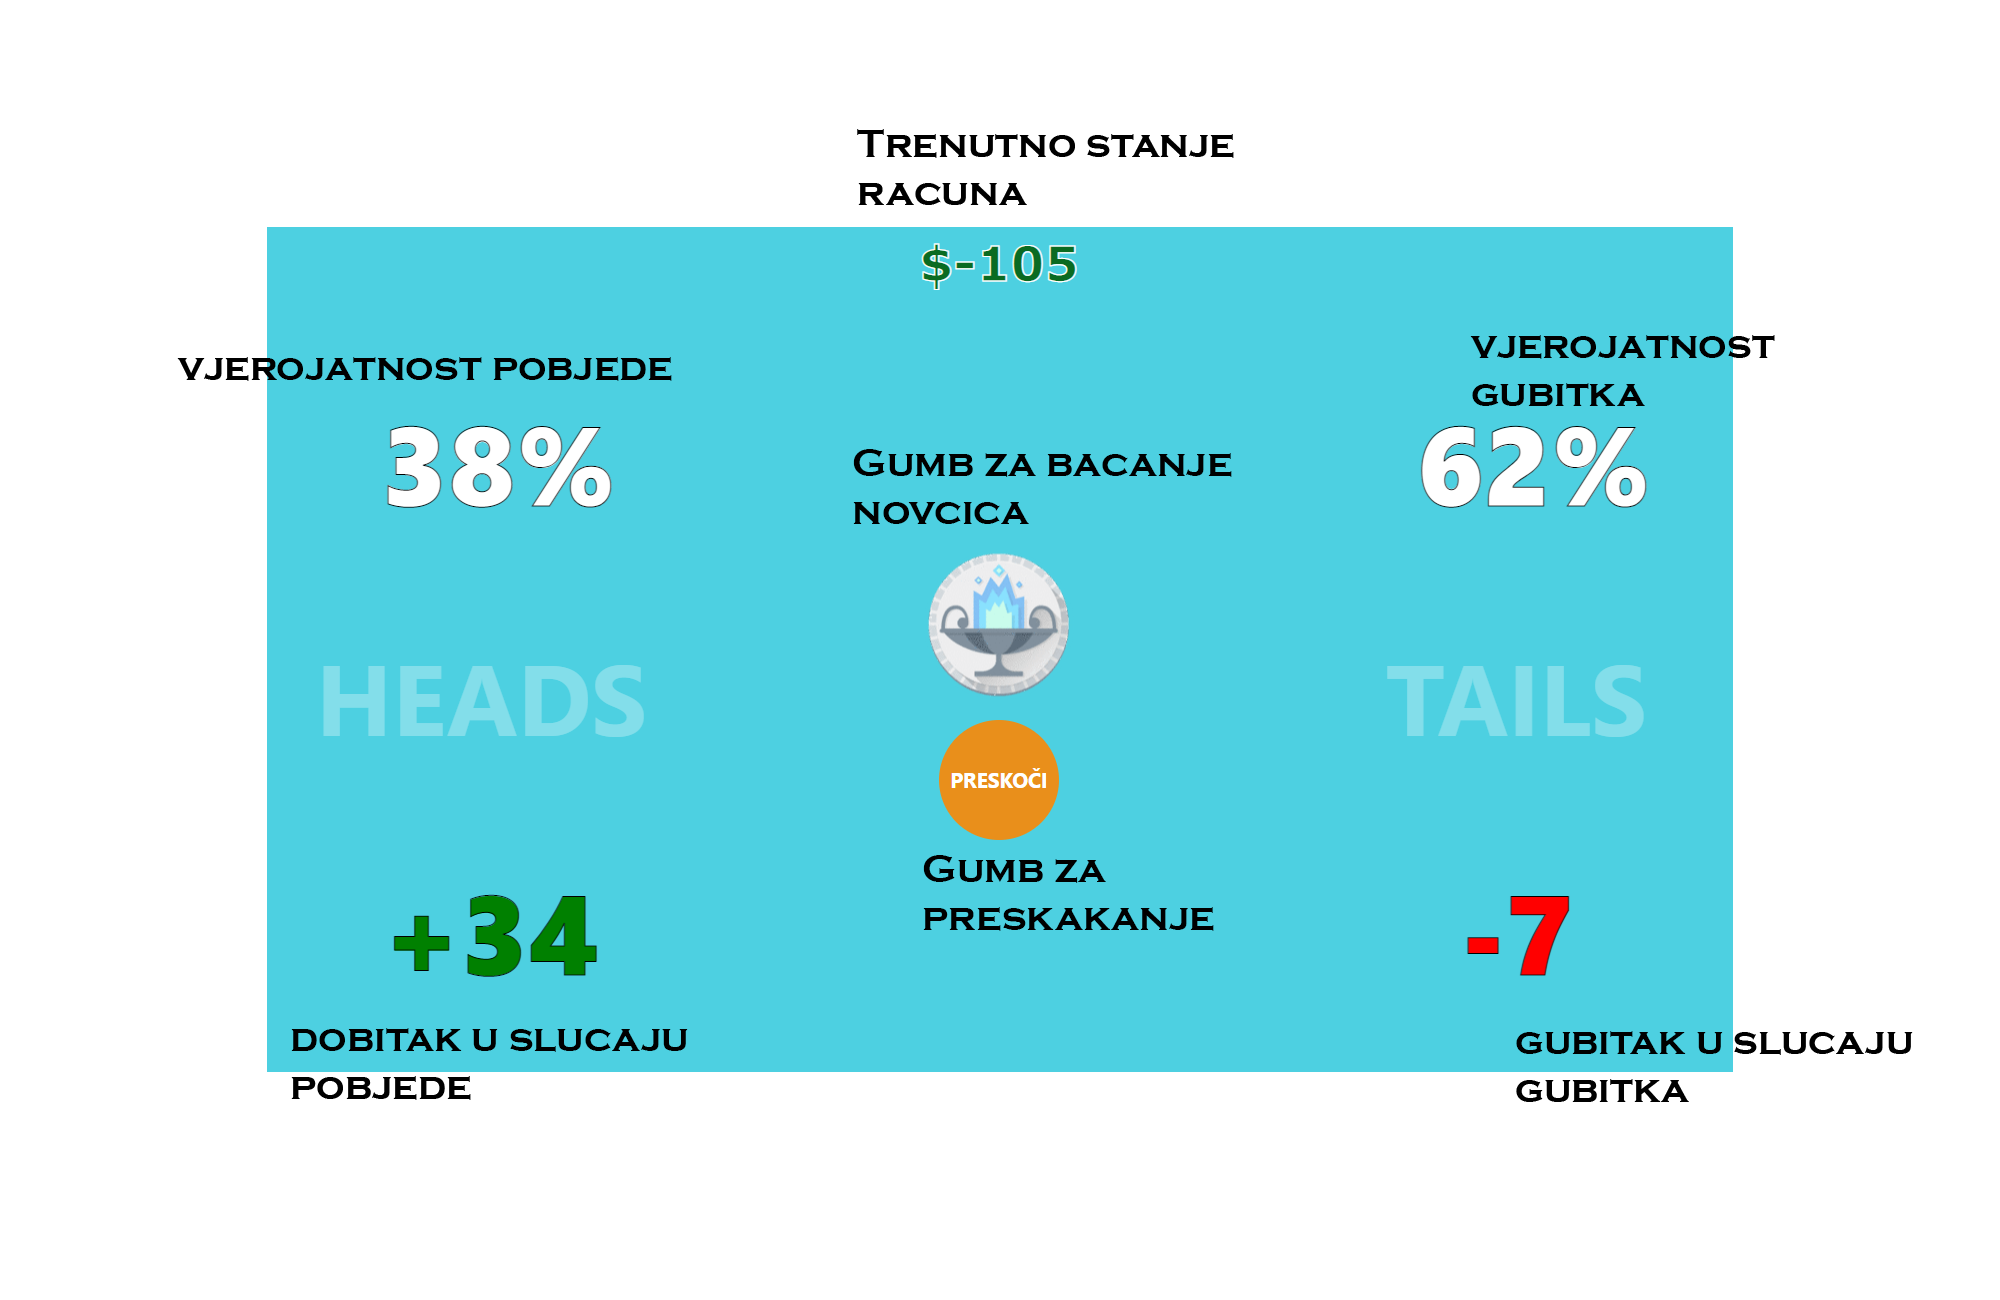
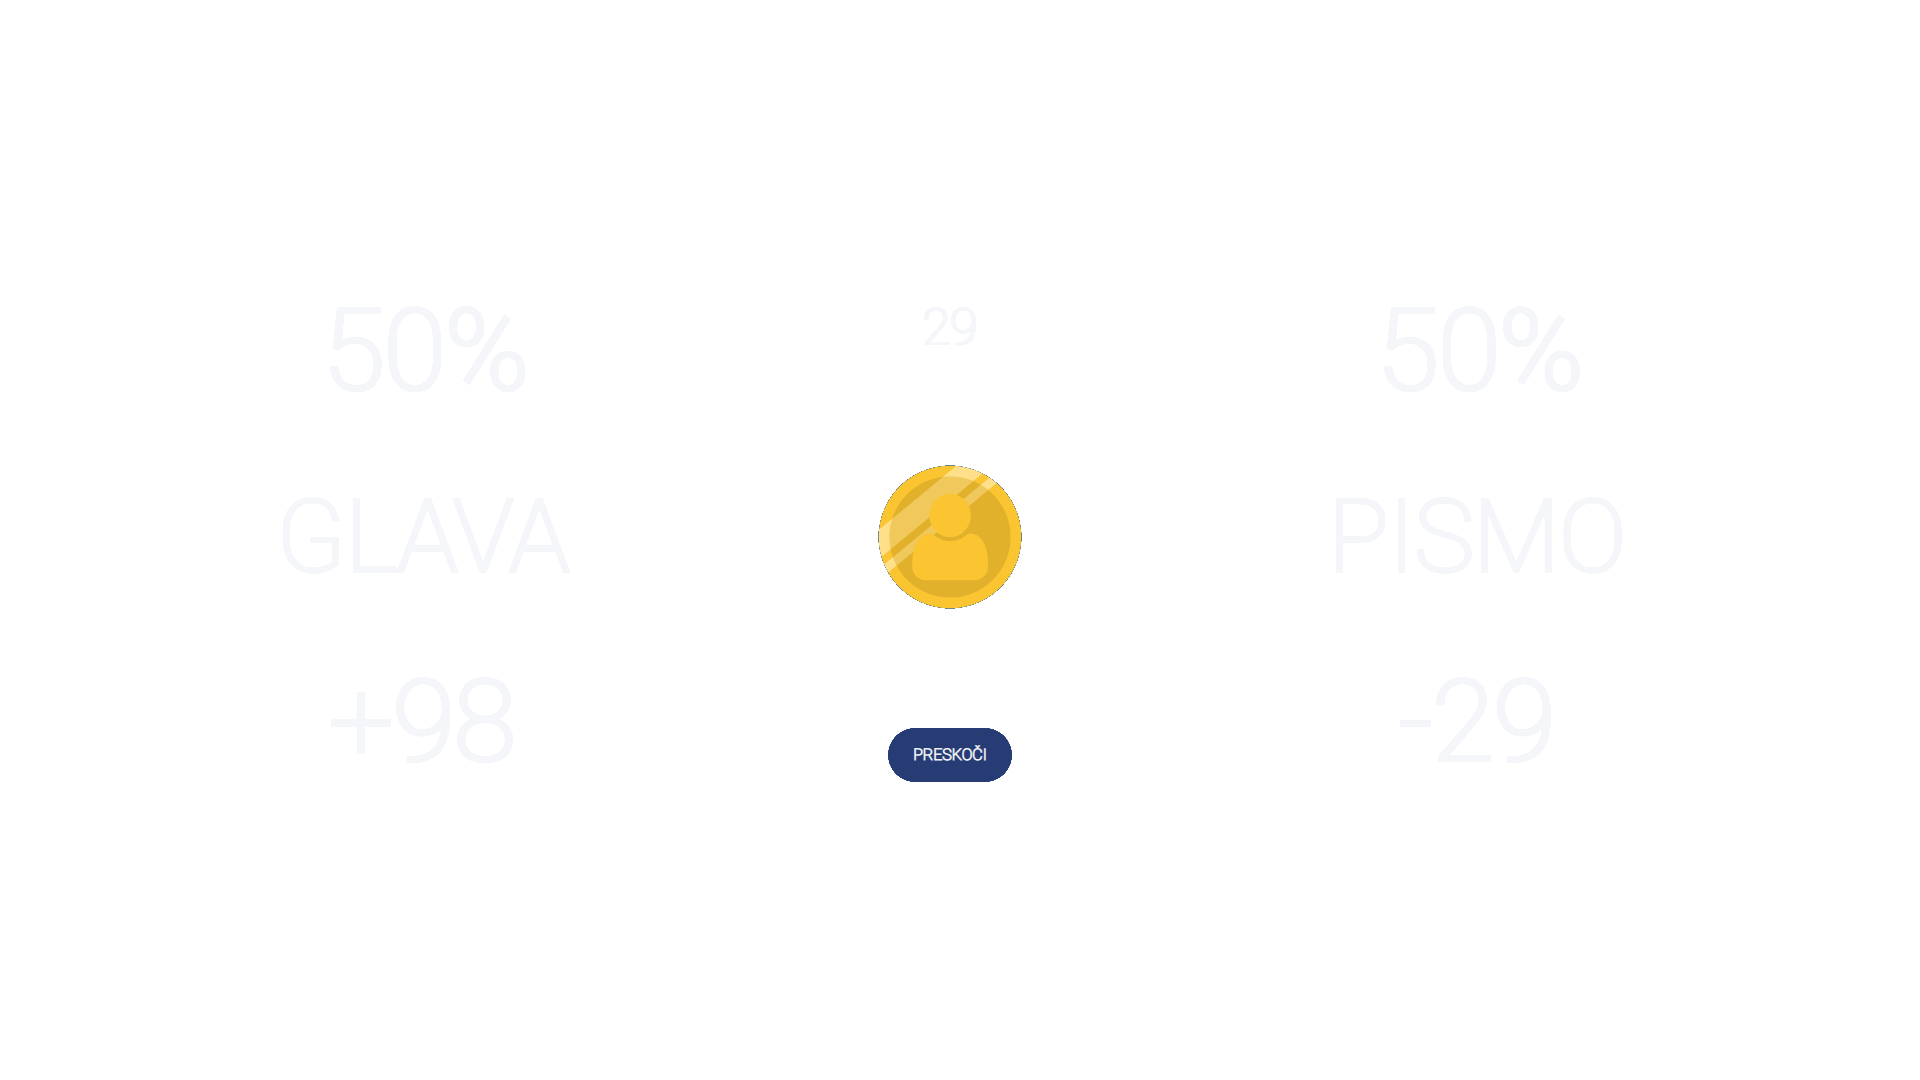
Design
Improved the design, added new images, adjusted color palette and created animated buttons

diff --git a/src/pages/Game.module.css b/src/pages/Game.module.css
@@ -1,44 +1,40 @@
 .container {
-  position: relative;
+  flex-direction: row;
   display: flex;
+  position: relative;
   height: 100vh;
   width: 100vw;
 }
 
 .points {
-  position: absolute;
-  width: 100vw;
-  text-align: center;
   text-transform: uppercase;
-  font-family: verdana;
-  font-size: 60px;
+  font-family: -apple-system, BlinkMacSystemFont, "Roboto", Arial, sans-serif;;
+  font-size: 50px;
   font-weight: 700;
-  color: #0a6b22;
-  -webkit-text-stroke: 1px #FFF;
+  color: rgb(245, 246, 250, 1);
 }
 
 .gain, .loss, .probability {
   text-align: center;
   width: 200px;
   font-size: 112px;
-  color: #FFF;
+  color: rgb(245, 246, 250, 1);
   font-weight: 900;
-  -webkit-text-stroke: 1px #000;
 }
 
 .gain {
-  color: green;
+  color: rgb(245, 246, 250, 1);;
 }
 
 .loss {
-  color: red;
+  color: rgb(245, 246, 250, 1);;
 }
 
 .bgText {
   font-size: 100px;
   font-weight: bold;
   text-transform: uppercase;
-  color: rgba(255, 255, 255, 0.3);
+  color: rgb(245, 246, 250, 0.5);
   user-select: none;
   position: absolute;
   top: 0;
@@ -57,51 +53,72 @@
   justify-content: space-around;
   align-items: center;
   flex-grow: 2;
+  /* background-color: rgb(245, 246, 250, 0.5); 
+  margin-left: 7%;
+  margin-right: 7%;
+  margin-top: 5%;
+  margin-bottom: 5%;
+  border: solid;
+  border-color: rgb(245, 246, 250, 1);*/
 }
 
 .middle {
+  position: relative;
   display: flex;
-  flex-shrink: 2;
+  flex-grow: 0.3;
   flex-direction: column;
   align-items: center;
   justify-content: center;
-  height: 100%;
+  /* background-color: rgb(245, 246, 250, 0.5); 
+  margin-top: 5%;
+  margin-bottom: 5%;
+  border: solid;
+  border-color: rgb(245, 246, 250, 1);*/
 }
 
-.skip {
-  margin-top: 20px;
+.btn{
+  /* overflow: hidden; */
+  margin-top: 200%;
+  border: none;
+  border-radius: 30px;
   cursor: pointer;
-  width: 120px;
-  height: 120px;
-  display: flex;
-  justify-content: center;
-  align-items: center;
-  border-radius: 50%;
-  background-color: rgb(233, 143, 27);
-  font-size: 20px;
-  font-weight: 700;
+  padding: 15px 25px;
+  transition: transform 0.3s ease;
+  background-color: #273c75;
   text-transform: uppercase;
-  color: #FFF;
+  font-weight: 600;
+  color: white;
+}
+
+.btn:hover {
+  background-color: #192a56;
+    transition: background-color 0.4s linear;    
+    transform: translateY(-3px);
+}
+
+img{
+  width: 150px;
+  height: 150px;
 }
 
 .coin {
-  position: relative;
+  position: absolute;
   width: 150px;
   height: 150px;
   cursor: pointer;
 }
 .coin div {
+  position: relative;
   width: 100%;
-  height: 100%;
+  height: 1px;
   border-radius: 50%;
-  overflow: hidden;
 }
 .coin {
   transition: transform 1s ease-in;
   transform-style: preserve-3d;
 }
 .coin div {
-  position: absolute;
+  position: relative;
   backface-visibility: hidden;
 }
 .headsSide {
@@ -128,8 +145,7 @@
 }
 
 .landingText {
-  margin: 20px 0 0 0;
-  color: gray;
-  font-weight: 900;
+  color: rgb(245, 246, 250, 1);
+  flex-wrap: wrap;
 }
 

diff --git a/src/pages/Game.js b/src/pages/Game.js
@@ -22,22 +22,24 @@ export default function Game() {
   const [gain, setGain] = useState(Math.round(Math.random() * 100));
   const [loss, setLoss] = useState(Math.round(Math.random() * 100));
   const [points, setPoints] = useState(0);
-  const [landText, setLandingText] = useState("");
+  const [landText, setLandingText] = useState(" ");
   return (
     <div>
       <div className={styles.container}>
-        <div className={styles.points}>{points}</div>
         <div className={styles.left}>
           <div className={styles.probability} hidden={blind}>
             {probability}%
           </div>
-          <div className={styles.bgText}>Heads</div>
+          <div className={styles.bgText}>Glava</div>
           <div className={styles.gain} hidden={blind}>
             +{gain}
           </div>
         </div>
         <div className={styles.middle}>
-          <h3 className={styles.landingText}>{landText}</h3>
+
+        <h3 className={styles.landingText}>{landText}</h3>
+          
+        <div className={styles.points}>{points}</div>
           <div
             className={styles.coin + " " + styles[coinState]}
             onClick={() => {
@@ -84,7 +86,7 @@ export default function Game() {
             </div>
           </div>
           <div
-            className={styles.skip}
+            className={styles.btn}
             onClick={() => {
               setLandingText(
                 Math.round(Math.random() * 100) <= probability
@@ -111,7 +113,7 @@ export default function Game() {
           <div className={styles.probability} hidden={blind}>
             {100 - probability}%
           </div>
-          <div className={styles.bgText}>Tails</div>
+          <div className={styles.bgText}>Pismo</div>
           <div className={styles.loss} hidden={blind}>
             -{loss}
           </div>

diff --git a/src/pages/Landing.module.css b/src/pages/Landing.module.css
@@ -1,4 +1,4 @@
-.container {
+.container {  
   display: flex;
   flex-direction: column;
   align-items: center;
@@ -6,24 +6,74 @@
 }
 
 .title {
-  font-size: 64px;
+  display: flex;
+  flex-direction: column;
+  align-items: center;
+  font-size: 55px;
+  margin-bottom: 1%;
+  border: solid;
+  border-color: rgb(245, 246, 250, 1);
+  padding-bottom: 10px;
+  padding-left: 150px;
+  padding-right: 150px;
+  border-left: rgb(245, 246, 250, 0);;
+  border-right: rgb(245, 246, 250, 0);;
+  border-top: rgb(245, 246, 250, 0);;
 }
 
 .upute {
+  font-family: -apple-system, BlinkMacSystemFont, "Roboto", Arial, sans-serif;
+  display: flex;
+  flex-direction: column;
+  align-items: center;
   width: 50%;
   font-size: 20px;
 }
 
+.imageText{  
+  font-family: -apple-system, BlinkMacSystemFont, "Roboto", Arial, sans-serif;
+  font-weight: bold;
+  text-decoration: blanchedalmond;
+  border: solid;
+  border-color: rgb(245, 246, 250, 1);
+  background-color: #c23616;
+  padding-bottom: 1px;
+  padding-left: 5px;
+  padding-right: 5px;
+}
+
 .imageExample {
-  width: 50vw;
+  width: 35vw;
   height: auto;
 }
 
-.startTutorial {
+.btn{
+  /* overflow: hidden; */
+  margin-top: 50px;
+  border: none;
+  border-radius: 30px;
+  cursor: pointer;
+  padding: 15px 25px;
+  transition: transform 0.3s ease;
+  background-color: #273c75;
+  text-transform: uppercase;
+  font-weight: 600;
+  color: white;
+}
+
+.btn:hover {
+  background-color: #192a56;
+    transition: background-color 0.4s linear;    
+    transform: translateY(-3px);
+}
+
+.stOld
+{
+  align-items: center;
   color: #FFF;
   outline: 0;
   border: none;
-  border-radius: 3px;
+  border-radius: 50px;
   background-color: rgb(233, 143, 27);
   padding: 15px 25px;
   text-transform: uppercase;

diff --git a/src/index.css b/src/index.css
@@ -1,11 +1,23 @@
+@import "https://fonts.googleapis.com/css?family=Roboto:100";
+
 body {
   margin: 0;
-  font-family: -apple-system, BlinkMacSystemFont, 'Segoe UI', 'Roboto', 'Oxygen',
-    'Ubuntu', 'Cantarell', 'Fira Sans', 'Droid Sans', 'Helvetica Neue',
-    sans-serif;
+  font-family: -apple-system, BlinkMacSystemFont, "Roboto", Arial, sans-serif;
   -webkit-font-smoothing: antialiased;
   -moz-osx-font-smoothing: grayscale;
-  background-color: #4dd0e1;
+  color: rgb(245, 246, 250, 1);
+  
+  background:#0097e6 no-repeat center center fixed; /* Old browsers */
+    background: -moz-radial-gradient(center, ellipse cover,  #487eb0 1%, rgba(79,143,249,1) 100%); /* FF3.6+ */
+    background: -webkit-radial-gradient(center, ellipse cover,  #487eb0 1%,rgba(79,143,249,1) 100%); /* Chrome10+,Safari5.1+ */
+    background: -o-linear-gradient(center, ellipse cover,  #487eb0 1%,rgba(79,143,249,1) 100%); /* Opera 12+ */
+    background: -ms-radial-gradient(center, ellipse cover,  #487eb0 1%,rgba(79,143,249,1) 100%); /* IE10+ */
+    background: linear-gradient(ellipse at center,  #487eb0 1%,rgba(79,143,249,1) 100%); /* W3C */
+    filter: progid:DXImageTransform.Microsoft.gradient( startColorstr='#a4c5fc', endColorstr='#4f8ff9',GradientType=1 ); /* IE6-9 fallback on horizontal gradient */
+    min-height: 100%;
+  /*background: linear-gradient(-45deg, #EE7752, #E73C7E, #23A6D5, #23D5AB);  
+  background-size: cover;
+  height:100%;*/
 }
 
 code {

diff --git a/src/pages/Landing.js b/src/pages/Landing.js
@@ -18,11 +18,11 @@ export default function Landing() {
         <p className={styles.upute}>Cilj je skupiti što više bodova. U svakoj partij možete baciti ili preskočiti bacanje. Ukoliko preskočite bacanje, prikupljeni bodovi se neće mijenjati. No, ako se odlučite na bacanje novčića, moguće ostvariti, ali i izgubiti određeni iznos bodova. Pravilo igre je da se uvijek kladite na glavu.
         U prvom dijelu igre će Vam u svakom bacanju biti ponuđeni uvjeti oklade, te koja je vjerojatnost dobitka li gubitka. No, u drugom krugu te informacije nećete imati.
         </p>
-        <p>
+        <p className={styles.imageText}>
           Na donjoj slici je primjer igre te naznake na svim komponentama. Proučite ju prije pokretanja probne igre.
         </p>
         <img src="./tutorial_example.png" alt="tutorial_example" className={styles.imageExample}></img>
-        <button className={styles.startTutorial} onClick={() => {
+        <button className={styles.btn} onClick={() => {
           dispatch(setLeft(3)); 
           dispatch(setBlind(false)); 
           dispatch(setLog(false));

diff --git a/public/index.html b/public/index.html
@@ -2,12 +2,12 @@
 <html lang="en">
   <head>
     <meta charset="utf-8" />
-    <link rel="icon" href="%PUBLIC_URL%/favicon.ico" />
+    <link rel="icon" href="%PUBLIC_URL%/icon.ico" />
     <meta name="viewport" content="width=device-width, initial-scale=1" />
     <meta name="theme-color" content="#000000" />
     <meta
       name="description"
-      content="Web site created using create-react-app"
+      content="Stranica za projektni rad."
     />
     <link rel="apple-touch-icon" href="%PUBLIC_URL%/logo192.png" />
     <!--
@@ -28,7 +28,10 @@
   </head>
   <body>
     <noscript>You need to enable JavaScript to run this app.</noscript>
-    <div id="root"></div>
+    <div id="root">
+    </div>
+  </div>
+
     <!--
       This HTML file is a template.
       If you open it directly in the browser, you will see an empty page.

diff --git a/src/pages/RateForm.module.css b/src/pages/RateForm.module.css
@@ -1,4 +1,5 @@
 .container {
+  margin-top: 1%;
   display: flex;
   width: 100vw;
   flex-direction: column;
@@ -6,6 +7,8 @@
 }
 
 .ratingBar {
+  margin-top: 1%;
+  margin-bottom: 1%;
   display: flex;
 }
 
@@ -17,5 +20,5 @@
 }
 
 .active-rating {
-  background-color:aquamarine;
+  background-color:rgb(0, 255, 170,);
 }
